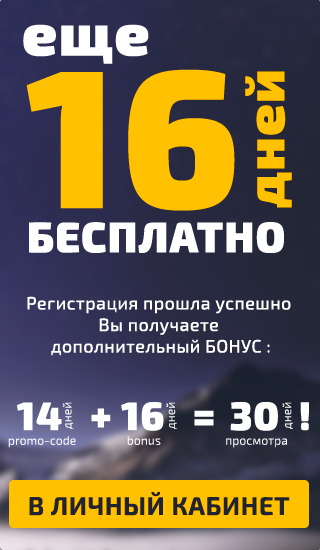
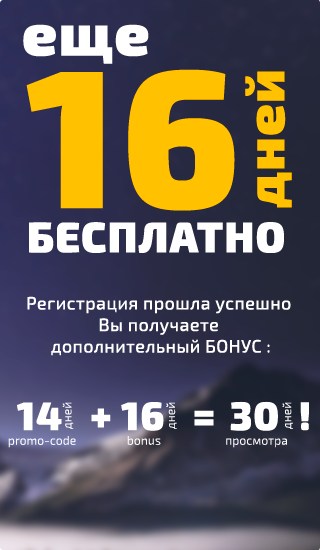
Правки по странице регистрации

Changed region(s): [[0.0312, 0.8655, 0.9688, 0.9582]]

diff --git a/css/main.css b/css/main.css
@@ -2668,6 +2668,14 @@ height:300px
 	top: 15px;
     right: 12px;
 }
+.banner__redirect-btn{
+	width: 340px;
+    height: 52px;
+    background: url(../img/banner-btn.png) no-repeat;
+    position: absolute;
+    bottom: 47px;
+    right: 51px;
+}
 @media screen and (max-width: 900px){
 	.banner{
 		position: absolute;
@@ -2677,5 +2685,12 @@ height:300px
 		width: 320px;
 		height: 550px;
 		background: url('../img/banner-adapt.png') no-repeat;
+	}
+	.banner__redirect-btn{
+		width: 300px;
+	    height: 50px;
+	    background: url(../img/banner-btn-adapt.png) no-repeat;
+	    bottom: 20px;
+	    right: 11px;
 	}
 }

diff --git a/registration.html b/registration.html
@@ -43,6 +43,7 @@
         <div class="banner-layout">
           <div class="banner">
             <a class="banner__close-btn"></a>
+            <a class="banner__redirect-btn"></a>
           </div>
         </div>
         <main id="main" data-page="registration" class="main main--no-padding">
